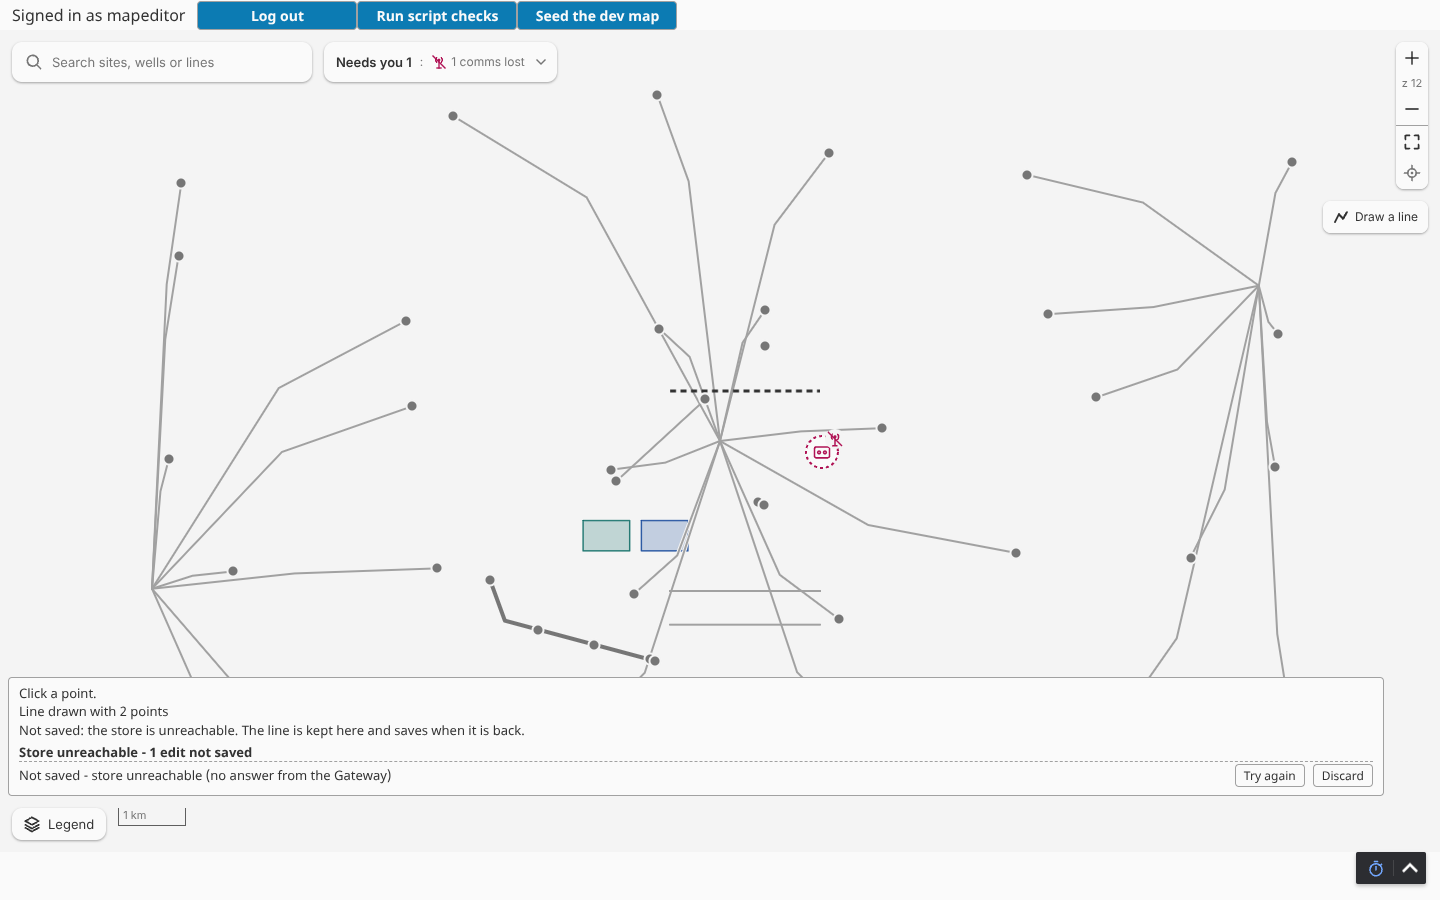
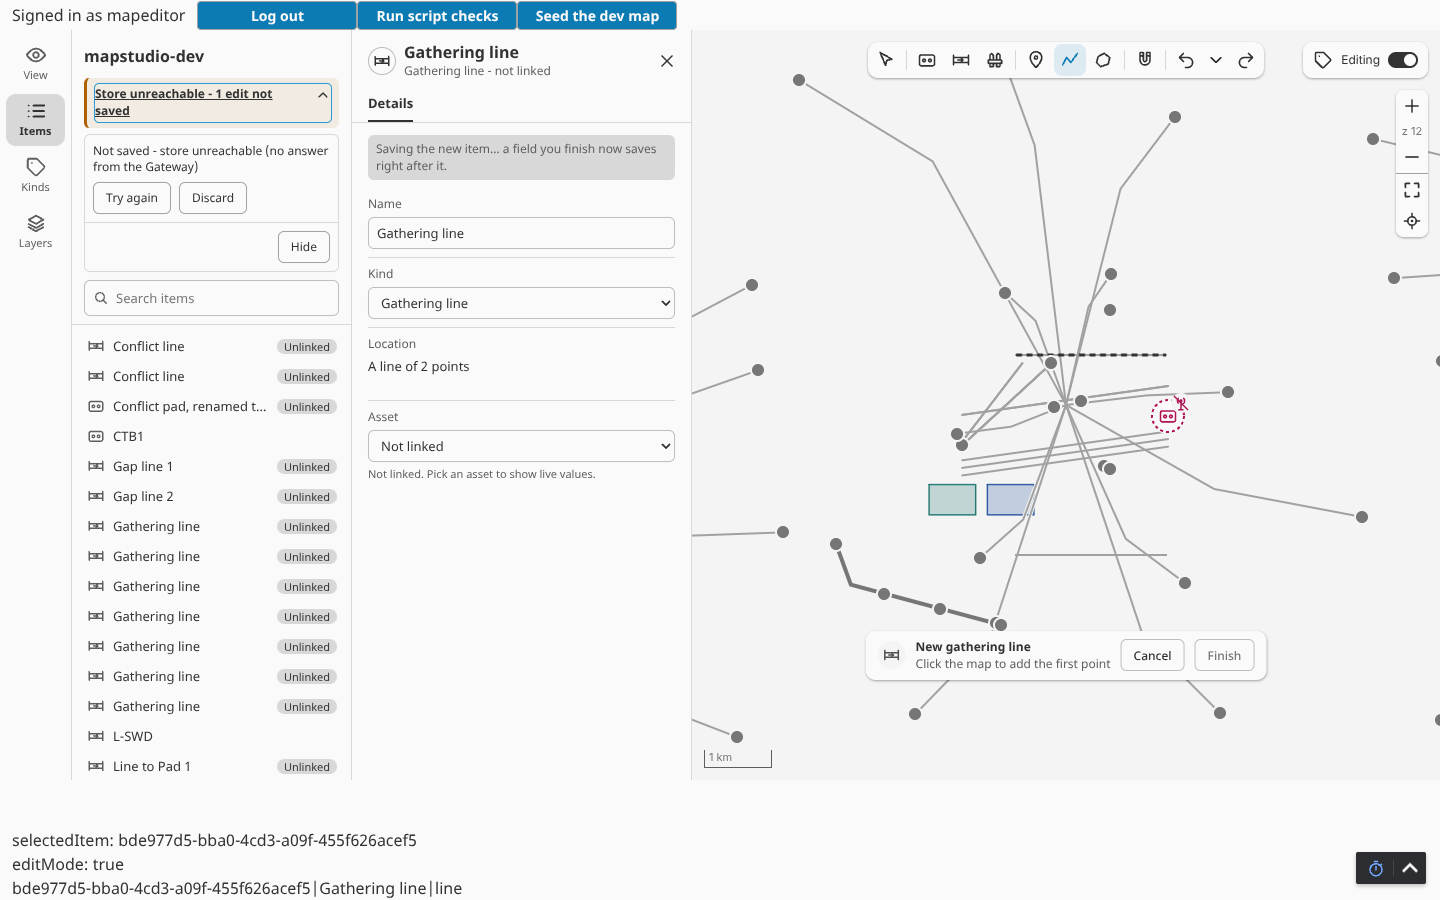
Epic 4 entry 24: the implementer's notes and the problem renders
The implementer's session ended with the container's restart before its
whole-suite run reported; its code was committed before that. The renders are
its E2E_DOCS run on that code; the coordinator's verification follows.

Claude-Session: https://claude.ai/code/session_01F9eVq2qqbKx1YxrgoxuWT6

diff --git a/_bmad-output/initiative-flowmap/tickets/epic-editing/tickets/story-the-status-box-retired-problems-on-the-save-status-row-in-ed-plan.md b/_bmad-output/initiative-flowmap/tickets/epic-editing/tickets/story-the-status-box-retired-problems-on-the-save-status-row-in-ed-plan.md
@@ -54,11 +54,11 @@ context: ['{project-root}/_bmad-output/initiative-flowmap/ux-map-studio/DESIGN.m
 ## Tasks & Acceptance
 
 **Execution:**
-- [ ] `web/typescript/MapStudio.tsx`, `mapstudio.css` -- the box removed; the chip's problem order and words; the attributes on the map for the tests.
-- [ ] `web/typescript/studio/ItemList.tsx` -- the save status row's problems in words, and the waiting edits under it (Try again, Discard, Hide), from `renderUnsaved`'s rows.
-- [ ] Unit tests for the chip's problem order and the row's words (pure, beside `save.ts` or `storeState.ts`).
-- [ ] The e2e readers above -- the new places, expectations kept; renders of a problem in each mode under `E2E_DOCS=1`.
-- [ ] `docs/contract.md`, `CHANGELOG.md` -- the box gone, where each problem shows, the hooks.
+- [x] `web/typescript/MapStudio.tsx`, `mapstudio.css` -- the box removed; the chip's problem order and words; the attributes on the map for the tests.
+- [x] `web/typescript/studio/ItemList.tsx` -- the save status row's problems in words, and the waiting edits under it (Try again, Discard, Hide), from `renderUnsaved`'s rows.
+- [x] Unit tests for the chip's problem order and the row's words (pure, beside `save.ts` or `storeState.ts`).
+- [x] The e2e readers above -- the new places, expectations kept; renders of a problem in each mode under `E2E_DOCS=1`.
+- [x] `docs/contract.md`, `CHANGELOG.md` -- the box gone, where each problem shows, the hooks.
 
 **Acceptance Criteria:**
 - Given the dev Gateway, when the matrix runs, then each row holds at 1366 and 390 px.
@@ -70,6 +70,18 @@ context: ['{project-root}/_bmad-output/initiative-flowmap/ux-map-studio/DESIGN.m
 - Planner, 2026-11-05: the environment, commit and identity rules are entry 4's plan's (Docker started by hand after a container restart, `ops/up.sh --fresh` before a whole-suite run, the two trailer lines from the session's attribution reminder, no em dashes, no model identifier, never a bare `git stash`, never a push).
 
 ## Plan Change Log
+
+- 2026-11-05 (implementer): no change to the frozen intent. Readings and small additions, for the reviewer:
+  - The problems are one pure module, `web/typescript/problems.ts` (`editProblems` for the row, `viewProblems` and `chipProblem` for the chip), beside `save.ts`, `storeState.ts` and `unsaved.ts`; the row and the waiting list are `studio/SaveStatus.tsx` (`ProblemRow`, `WaitingList`), which `ItemList.tsx` holds. Unit tests: `__tests__/problems.test.ts` (the order, the viewer's two, the no-blink words, the setup's words) and `__tests__/saveStatus.test.ts` (the row and the list rendered).
+  - Edit mode's row says **every** problem at once, one line each in the chip's order (the frozen text says "one at a time" for the chip only); the connection is not on it, since the chip keeps saying it under the toolbar in Edit mode as before. With no problem the status stays beside the title (Saved, Saving...).
+  - The words: the store or the setup is "Map store: " and the Gateway's sentence, the code (`store-unreachable: `) left out of the words and kept on the map as `data-load-message`; an unavailable store says its reason while each retry loads, the same words as the failed load, so the row and the chip do not blink (measured on the dev stack: 0 of about 900 frames without them across a retry). The edits waiting are `unsaved.ts` `waitingText`: "Store unreachable - 2 edits not saved" while the store is out of reach (DESIGN.md's words), else "N edits not saved - " and the oldest reason in an entry's words (`reasonText`, the part of `entryText` after "Not saved - ", which now uses it), or the count alone while no entry has a reason. A refused or unsent save whose batch still waits is said by the edits line; only when its entry has gone (a discard) do the save's own words ("Not saved - ...") stand, until the next save, as entry 23's row did. So a refused undo reads "1 edit not saved - conflict with ...'s change. P42 moved on was changed by ..." on the row, its `data-code` still `conflict`.
+  - The waiting edits open **closed**: the row's edits line is a button (`aria-expanded`, a chevron) that opens them under the row, in the dock above Search items; Hide, Esc in the list (going no further, so Details stays) or the edits' going close it, the focus back on the line. The owner's "opens the waiting edits under it" read as a press, as DESIGN.md's clickable save status and entry 10's "Show my 2 edits" are; the mock was not available to me, so the owner may want it open by default instead (one line in `ItemList.tsx`).
+  - "A viewer" is a session whose level is not `phone` or `full` (with the level last reported while a failed load leaves it unknown). An anonymous viewer of a read-only store now sees no words for it (the frozen matrix: "the chip for an editor"); its reason stays on the map as `data-store-reason`, and `store-ops.spec.mjs` checks that instead of the old line. A level-`none` session's own queued edits ("Sign in with a Map Studio editing role ...") are not shown either (it has no studio, and the rule says a viewer never sees edits); no path queues an edit at level `none` today.
+  - The chip: `.mapstudio-chip` with `data-problem`, also `.mapstudio-connection` (`data-state`) while it says the connection, so `connection.spec.mjs` and `studio.spec.mjs` read it unchanged. The cloud glyph (struck through) is new in `controls.ts` (DESIGN.md Icons names a cloud among the chrome glyphs) for every problem but the connection, which keeps the hourglass. The chip now takes the pointer (`pointer-events` was none), so its title shows; it is as wide as its words up to 560 px and clear of the zoom card on both sides (`max-width`), two lines at most (`line-clamp`). It stays under the controls (z-index 4 below the corners' 6).
+  - The map's attributes for the suite: `data-save-state`, `data-save-item`, `data-save-version`, `data-save-code`, `data-load-message`, `data-store-reason` are new; `data-last-reply`, `data-load-state`, `data-store-state` stay. `saveStatusText` ("Saved as version 1") is removed with its unit check; `storeStatusText` stays as the store's words.
+  - e2e: a new `e2e/tests/problems.spec.mjs` runs the matrix at 1366 and 390 px (the store unreachable and a setup error on the row and the chip with no blink across a retry; two edits waiting with the list, Hide, Esc and Discard, the editor's chip, No connection first; a read-only store on the row and the editor's chip; the phone's chip with the setup's long words on two lines and the title; a viewer's chip). Its websocket routing is unsaved.spec's, moved into `e2e/lib/sockets.mjs` with a read-only reply added, and unsaved.spec imports it. At 390 px the waiting edits' Discard is Edit mode's, so unsaved.spec's conflict test reads the chip and the stored queue there, then opens the page again at 1366 px for Discard. `fixtures.mjs` `drawLine` waits on the map's `data-save-state` and `openMap` no longer waits for the box.
+  - Not in the Code Map: `docs/architecture.md` (the module table: `problems.ts`, `SaveStatus.tsx`) and `docs/development.md` (its sentence on the echo).
+  - Seen, not changed: with the store unreachable the Items list still lists the items the map no longer draws (`listRows` reads `delegate.items`); pre-existing, for entry 10 or 7. The spines (DESIGN.md, EXPERIENCE.md) do not yet say that View mode's chip carries problems other than No connection; R26 in the epic does.
 
 ## Review Triage Log
 
